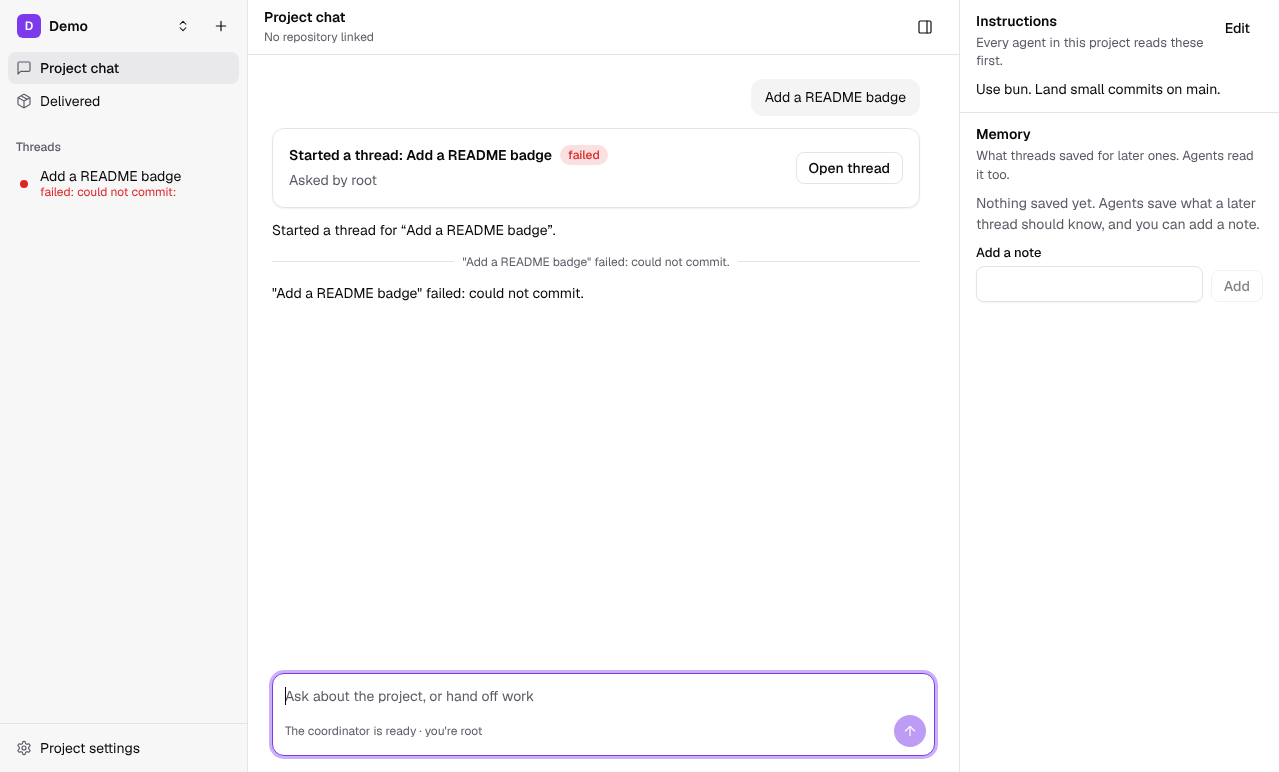
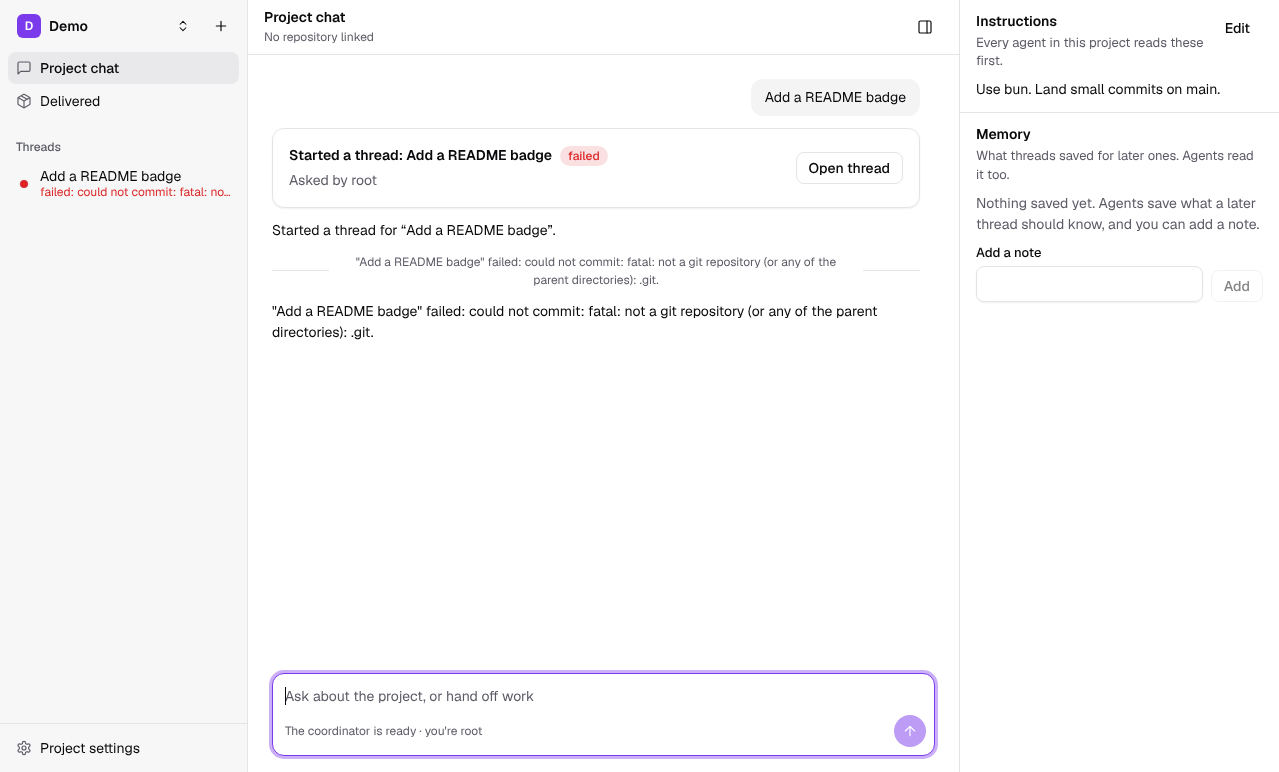
Thread view: failed attempts as notes in the transcript, Retry after it
Each failed or interrupted attempt (failedAttempts in app/threads/state.ts) gets a note where it ended, so a retried
request no longer shows as an unexplained duplicate. The latest failure, while it can be retried, is the Alert with
Retry below the transcript, beside the composer, instead of above it. Tour screenshots refreshed.

Claude-Session: https://claude.ai/code/session_01Vf1CvuVV6JbuxZTf8p59C4

Changed region(s): [[0.2134, 0.3109, 0.6708, 0.4352], [0.5184, 0.3731, 0.5794, 0.4352], [0.4269, 0.1865, 0.4879, 0.2176]]

diff --git a/app/screens/threads.tsx b/app/screens/threads.tsx
@@ -6,7 +6,7 @@ import { eq, useLiveQuery } from "point/cloud/db";
 import { render } from "../../.point/components";
 import { ThreadPullRequest } from "../lib/ThreadPullRequest";
 import { stateLabel } from "../threads/labels";
-import { lastAttempt, threadState, type ThreadState } from "../threads/state";
+import { failedAttempts, lastAttempt, threadState, type ThreadState } from "../threads/state";
 import { Alert } from "../ui/Alert";
 import { ApprovalPrompt } from "../ui/ApprovalPrompt";
 import { formatCost, threadCost } from "../lib/cost";
@@ -152,6 +152,26 @@ export function ThreadView({ threadId }: { threadId: string }) {
     setProblem(r.ok ? undefined : r.failure.code);
   };
   const started = agent.messages.length > 0;
+  const failed = failedAttempts(agent.events);
+  const latestAsked = agent.messages.findLast((m) => m.role === "user");
+  const renderMessage = (m: (typeof agent.messages)[number]) =>
+    m.role === "tool" ? (
+            <Message key={m.id} from="tool" title={m.name ?? "tool"} pending={!m.done}>
+              {JSON.stringify(m.input)}
+              {m.done && m.output !== undefined
+                ? ` → ${z.string().safeParse(m.output).data ?? JSON.stringify(m.output)}`
+                : ""}
+            </Message>
+          ) : m.role === "reasoning" ? (
+            <Disclosure key={m.id} summary={m.done ? "Thinking" : "Thinking…"}>
+              <Text tone="muted">{m.text}</Text>
+            </Disclosure>
+          ) : (
+            <Message key={m.id} from={m.role === "user" ? "you" : "agent"} pending={!m.done}>
+              {m.text}
+              {steers.has(m.id) && <Text tone="muted"> ({steers.get(m.id)})</Text>}
+            </Message>
+          );
 
   return (
     <>
@@ -202,7 +222,26 @@ export function ThreadView({ threadId }: { threadId: string }) {
       />
       <PaneBody>
       <Text tone="muted">{state.help}</Text>
-      {/* A failure comes first: it is what the person has to act on. */}
+      <Alert tone="danger">{problem}</Alert>
+      <MessageList>
+        {agent.messages.flatMap((m, i) => {
+          // A failed attempt gets a note where it ended: before the next message, or at the end. The latest one, while it
+          // can be retried, is the Alert below instead.
+          const asked = agent.messages.slice(0, i).findLast((p) => p.role === "user");
+          const note =
+            m.role === "user" && asked && failed.has(asked.id) ? (
+              <Message key={`failed-${asked.id}`} from="note">
+                {failed.get(asked.id)}
+              </Message>
+            ) : null;
+          return [note, renderMessage(m)];
+        })}
+        {latestAsked && failed.has(latestAsked.id) && !retryable && (
+          <Message key={`failed-${latestAsked.id}`} from="note">
+            {failed.get(latestAsked.id)}
+          </Message>
+        )}
+      </MessageList>
       <Alert tone="danger">
         {retryable && (
           <Stack direction="row" gap={8} align="center" justify="between" wrap>
@@ -213,28 +252,6 @@ export function ThreadView({ threadId }: { threadId: string }) {
           </Stack>
         )}
       </Alert>
-      <Alert tone="danger">{problem}</Alert>
-      <MessageList>
-        {agent.messages.map((m) =>
-          m.role === "tool" ? (
-            <Message key={m.id} from="tool" title={m.name ?? "tool"} pending={!m.done}>
-              {JSON.stringify(m.input)}
-              {m.done && m.output !== undefined
-                ? ` → ${z.string().safeParse(m.output).data ?? JSON.stringify(m.output)}`
-                : ""}
-            </Message>
-          ) : m.role === "reasoning" ? (
-            <Disclosure key={m.id} summary={m.done ? "Thinking" : "Thinking…"}>
-              <Text tone="muted">{m.text}</Text>
-            </Disclosure>
-          ) : (
-            <Message key={m.id} from={m.role === "user" ? "you" : "agent"} pending={!m.done}>
-              {m.text}
-              {steers.has(m.id) && <Text tone="muted"> ({steers.get(m.id)})</Text>}
-            </Message>
-          ),
-        )}
-      </MessageList>
       {/* Components the agent rendered (its summary); props were validated by the runtime before the ui event. */}
       {agent.ui.map((u) => (
         <div key={u.id}>{render(u)}</div>

diff --git a/app/threads/state.test.ts b/app/threads/state.test.ts
@@ -1,5 +1,5 @@
 import { describe, expect, it } from "vitest";
-import { callerThread, lastAttempt, outputKey, outputLabel, threadState } from "./state";
+import { callerThread, failedAttempts, lastAttempt, outputKey, outputLabel, threadState } from "./state";
 
 const pr = { kind: "pr", repo: "o/r", number: 1 } as const;
 const commit = { kind: "commit", repo: "o/r", sha: "abc1234", branch: "main" } as const;
@@ -84,5 +84,26 @@ describe("lastAttempt", () => {
   });
   it("is not failed while the latest request hasn't run yet", () => {
     expect(lastAttempt([user("a"), end("failed"), user("b")])).toEqual({ request: "b", failed: false });
+  });
+});
+
+describe("failedAttempts", () => {
+  it("keys each failed attempt by the message that asked for it", () => {
+    const events = [
+      { id: "u1", type: "user", text: "a", turn: "start" },
+      { id: "e1", type: "error", message: "boom" },
+      { id: "t1", type: "turn.end", turnId: "x", status: "failed" },
+      { id: "u2", type: "user", text: "a", turn: "queue" },
+      { id: "t2", type: "turn.end", turnId: "y", status: "completed" },
+      { id: "u3", type: "user", text: "b", turn: "queue" },
+      { id: "t3", type: "turn.end", turnId: "z", status: "interrupted" },
+      { id: "u4", type: "user", text: "c", turn: "queue" },
+      { id: "e4", type: "error", message: "missing key" },
+    ] as const;
+    expect([...failedAttempts(events)]).toEqual([
+      ["u1", "That attempt failed: boom"],
+      ["u3", "That attempt was interrupted."],
+      ["u4", "That attempt failed: missing key"],
+    ]);
   });
 });

diff --git a/app/threads/state.ts b/app/threads/state.ts
@@ -92,3 +92,33 @@ export function lastAttempt(events: readonly ThreadEventBody[]): {
   const failed = ended ? ended !== "completed" : message !== undefined && at >= 0;
   return { ...(request !== undefined ? { request } : {}), failed, ...(failed && message ? { message } : {}) };
 }
+
+/**
+ * Every attempt that failed, keyed by the id of the message that asked for it (a user message's id is its event id):
+ * a turn that ended `failed` or `interrupted`, or an error with no turn before the next message (the harness never
+ * started). The value says why, for a note in the transcript.
+ */
+export function failedAttempts(events: readonly (ThreadEventBody & { id: string })[]): Map<string, string> {
+  const failed = new Map<string, string>();
+  let asked: string | undefined;
+  let error: string | undefined;
+  let ended = false;
+  const close = () => {
+    if (asked && !ended && error) failed.set(asked, `That attempt failed: ${error}`);
+  };
+  for (const e of events) {
+    if (e.type === "user") {
+      close();
+      asked = e.id;
+      error = undefined;
+      ended = false;
+    } else if (e.type === "error") error = e.message;
+    else if (e.type === "turn.end") {
+      if (asked && e.status !== "completed")
+        failed.set(asked, error ? `That attempt failed: ${error}` : `That attempt was ${e.status}.`);
+      ended = true;
+    }
+  }
+  close();
+  return failed;
+}
